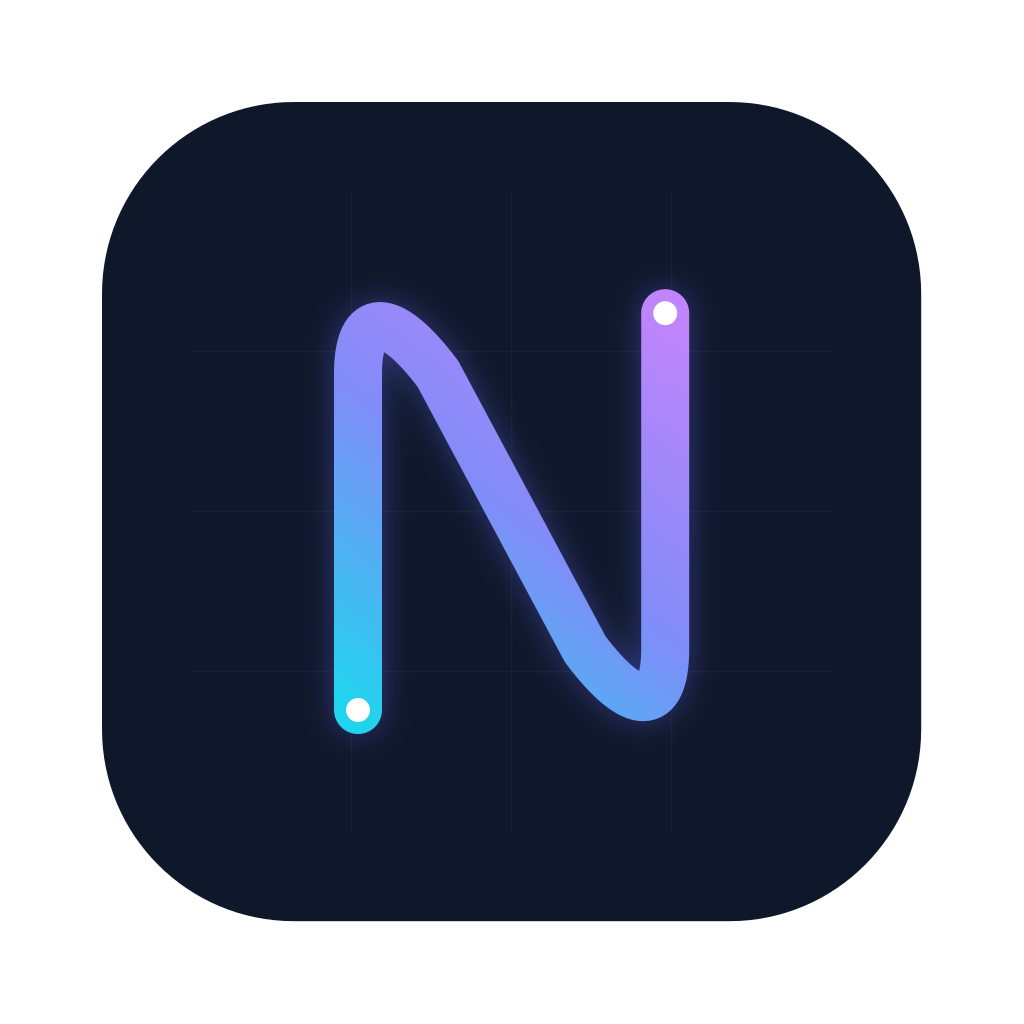
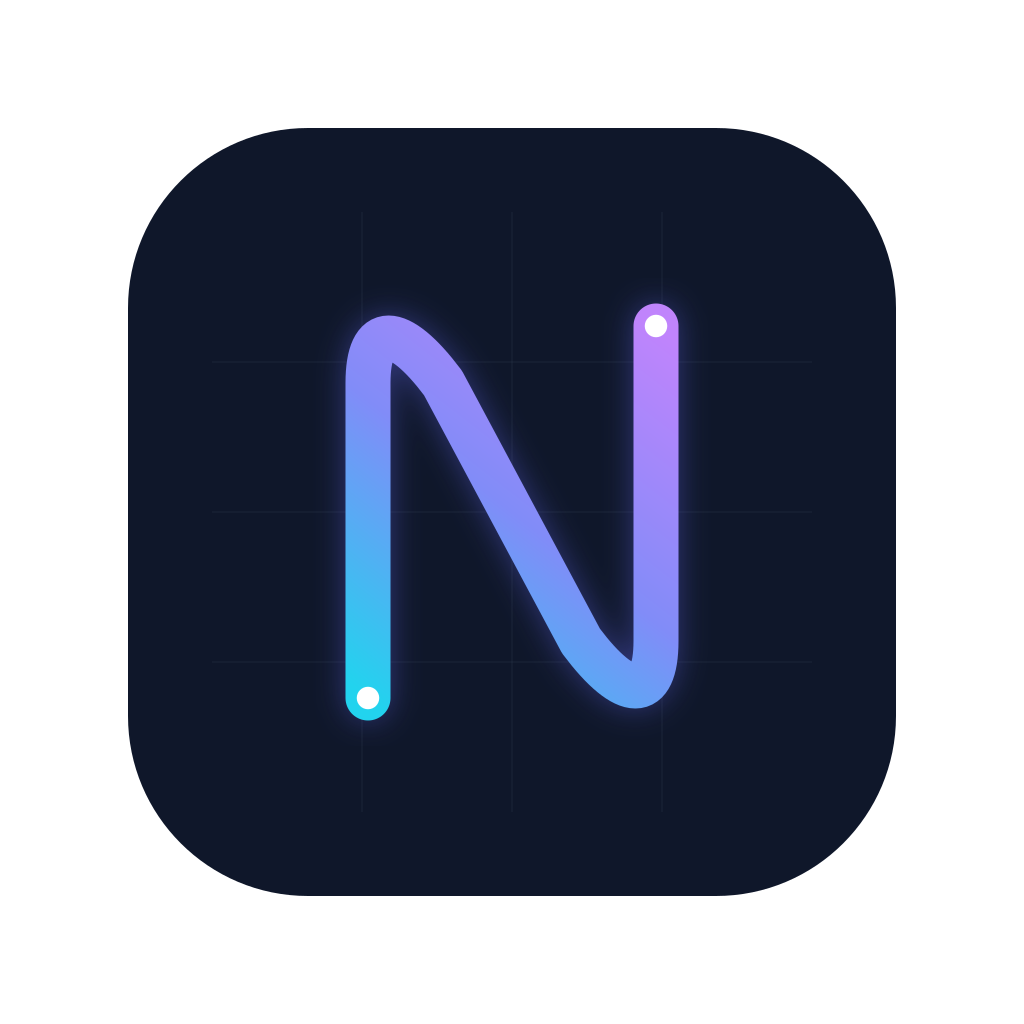
chore(release): 发布版本0.2.2
- 更新所有模块版本号至0.2.2
- 优化Java SDK gRPC流初始化逻辑
- 改进Java SDK Maven发布配置
- 调整桌面应用图标比例和边距
- 升级Java依赖库版本(netty, grpc)
- 完善.gitignore忽略数据库文件
- 新增Web控制台Logo矢量图
- 修复Java SDK重复连接时的代理注册问题
- 优化GitHub Actions发布流程配置

diff --git a/sdk/java/src/main/java/com/kkape/sdk/grpc/NanoLinkServiceImpl.java b/sdk/java/src/main/java/com/kkape/sdk/grpc/NanoLinkServiceImpl.java
@@ -90,6 +90,15 @@ public class NanoLinkServiceImpl extends NanoLinkServiceGrpc.NanoLinkServiceImpl
 
         log.debug("New metrics stream connection");
 
+        // Send initial response immediately to trigger HTTP/2 headers
+        // This allows tonic/rust clients to complete the stream_metrics() call
+        responseObserver.onNext(MetricsStreamResponse.newBuilder()
+                .setHeartbeatAck(HeartbeatAck.newBuilder()
+                        .setTimestamp(System.currentTimeMillis())
+                        .build())
+                .build());
+        log.debug("Sent initial heartbeat ack to establish stream");
+
         return new StreamObserver<MetricsStreamRequest>() {
             private AgentConnection agent = null;
             private String agentId = null;
@@ -171,11 +180,29 @@ public class NanoLinkServiceImpl extends NanoLinkServiceGrpc.NanoLinkServiceImpl
                         // Handle static hardware info
                         io.nanolink.proto.StaticInfo protoStatic = request.getStaticInfo();
 
-                        // Register agent on first message if needed
-                        if (agent == null) {
-                            agent = findOrCreateAgentForStream(responseObserver, "static");
-                            if (agent != null) {
-                                agentId = agent.getAgentId();
+                        // Register agent from StaticInfo if not already registered
+                        if (agent == null && protoStatic.hasSystemInfo()) {
+                            String hostname = protoStatic.getSystemInfo().getHostname();
+                            if (hostname != null && !hostname.isEmpty()) {
+                                // Check if agent with same hostname already exists (reconnection case)
+                                AgentConnection existingAgent = server.getAgentByHostname(hostname);
+                                if (existingAgent != null) {
+                                    server.unregisterAgent(existingAgent);
+                                    log.info("Replacing stale agent connection for hostname: {}", hostname);
+                                }
+
+                                agentId = UUID.randomUUID().toString();
+                                agent = new AgentConnection(
+                                        agentId,
+                                        hostname,
+                                        protoStatic.getSystemInfo().getOsName(),
+                                        protoStatic.hasCpu() ? protoStatic.getCpu().getArchitecture() : "",
+                                        "0.2.1",
+                                        3 // Default permission
+                                );
+                                server.registerAgent(agent);
+                                streamAgents.put(responseObserver, agent);
+                                log.info("Agent registered from static info: {} ({})", hostname, agentId);
                             }
                         }
 

diff --git a/agent/src/main.rs b/agent/src/main.rs
@@ -28,7 +28,7 @@ use crate::management::ManagementServer;
 #[derive(Parser, Debug)]
 #[command(name = "nanolink-agent")]
 #[command(author = "NanoLink Team")]
-#[command(version = "0.2.1")]
+#[command(version = "0.2.2")]
 #[command(about = "Lightweight server monitoring agent", long_about = None)]
 struct Args {
     /// Path to configuration file

diff --git a/sdk/python/nanolink/__init__.py b/sdk/python/nanolink/__init__.py
@@ -4,7 +4,7 @@ NanoLink SDK - Python SDK for NanoLink monitoring system
 A lightweight, cross-platform server monitoring agent system.
 """
 
-__version__ = "0.2.1"
+__version__ = "0.2.2"
 
 from .server import NanoLinkServer, ServerConfig
 from .connection import AgentConnection

diff --git a/apps/server/cmd/main.go b/apps/server/cmd/main.go
@@ -23,7 +23,7 @@ import (
 
 var (
 	configFile = flag.String("config", "config.yaml", "Configuration file path")
-	version    = "0.2.1"
+	version    = "0.2.2"
 )
 
 func main() {

diff --git a/sdk/go/nanolink/version.go b/sdk/go/nanolink/version.go
@@ -1,4 +1,4 @@
 package nanolink
 
 // Version is the current version of the NanoLink Go SDK
-const Version = "0.2.1"
+const Version = "0.2.2"
